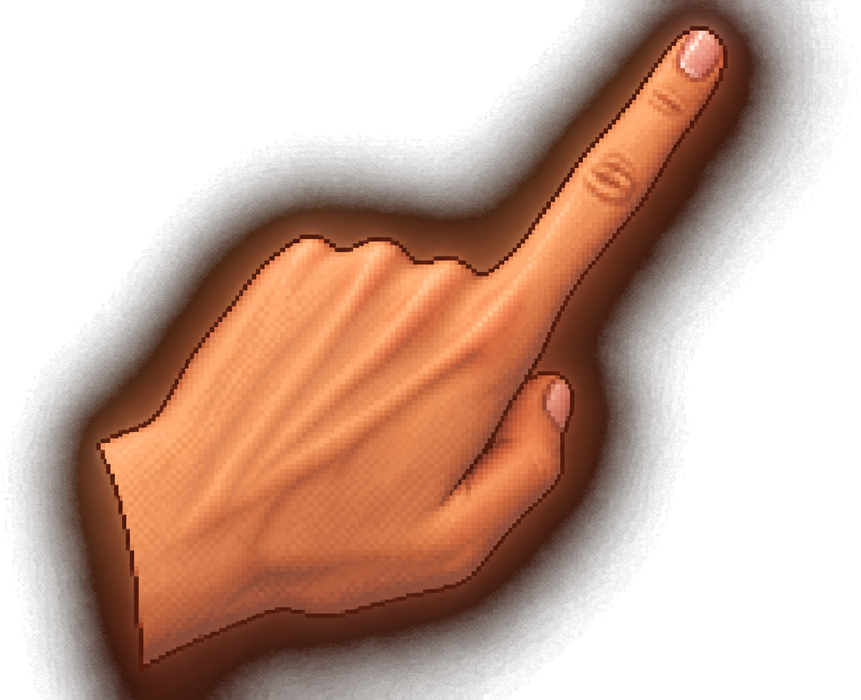
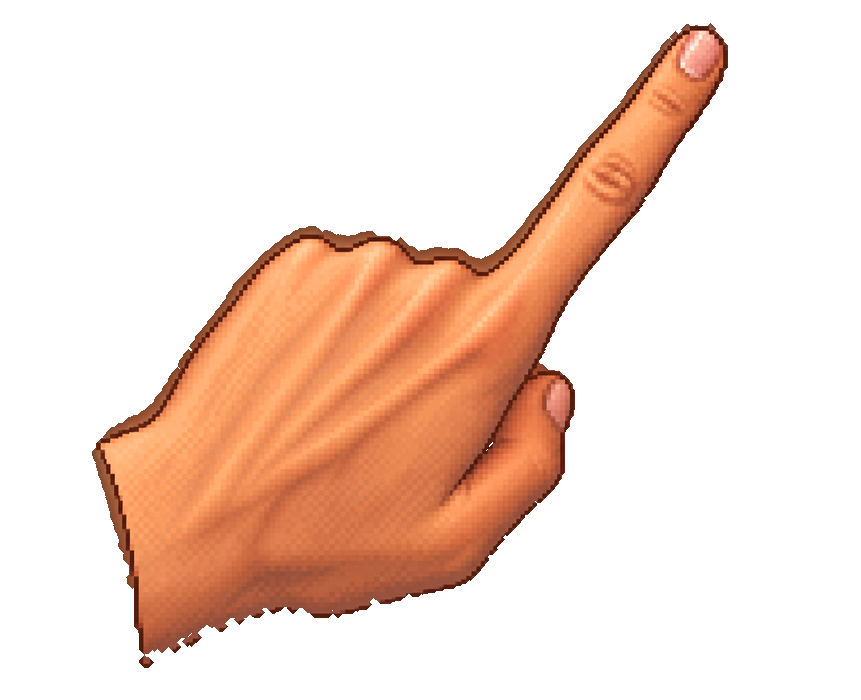
Simplifie et uniformise l’affichage des paris

diff --git a/multiplayer.css b/multiplayer.css
@@ -36,13 +36,13 @@
 }
 
 /* Révélation simultanée des paris par gestes de mains */
-.bid-reveal{width:calc(100% + 30px);max-width:650px;margin:8px -15px 14px;padding:14px 10px 16px;border:1px solid #d7b85f;border-radius:12px;background:linear-gradient(180deg,#173c34ee,#081e1bdd);box-shadow:0 10px 25px #0008,inset 0 0 22px #e3bd3a18}
+.bid-reveal{width:calc(100% + 12px);max-width:700px;margin:8px -6px 14px;padding:15px 12px 17px;border:1px solid #d7b85f;border-radius:12px;background:linear-gradient(180deg,#173c34ee,#081e1bdd);box-shadow:0 10px 25px #0008,inset 0 0 22px #e3bd3a18}
 .bid-reveal>h3{margin:0 0 9px;color:#ffe08a;font-size:11px;letter-spacing:.18em;text-align:center;text-shadow:0 2px #000}
-.bid-reveal-grid,.mobile-bid-reveal{display:flex;justify-content:center;align-items:end;gap:14px;flex-wrap:wrap}
-.revealed-bid{display:grid;grid-template-rows:auto 108px auto;min-width:110px;place-items:center;color:#fff1b8;text-align:center;animation:bid-hand-reveal .55s cubic-bezier(.2,.9,.25,1.25) both}
+.bid-reveal-grid,.mobile-bid-reveal{display:flex;justify-content:center;align-items:end;gap:16px;flex-wrap:wrap}
+.revealed-bid{display:grid;grid-template-rows:auto 118px;min-width:120px;place-items:center;color:#fff1b8;text-align:center;animation:bid-hand-reveal .55s cubic-bezier(.2,.9,.25,1.25) both}
 .revealed-bid:nth-child(2){animation-delay:.06s}.revealed-bid:nth-child(3){animation-delay:.12s}.revealed-bid:nth-child(4){animation-delay:.18s}
-.revealed-bid>span{font-size:10px;font-weight:900}.revealed-bid>small{margin-top:-2px;color:#f6d372;font-size:9px;font-weight:900}
-.bid-gesture{position:relative;display:inline-grid;width:126px;height:106px;place-items:center;filter:drop-shadow(0 7px 6px #000b)}
+.revealed-bid>span{font-size:10px;font-weight:900}
+.bid-gesture{position:relative;display:inline-grid;width:138px;height:116px;place-items:center;filter:drop-shadow(0 7px 6px #000b)}
 .bid-gesture img{display:block;max-width:100%;max-height:100%;object-fit:contain}
 .bid-gesture.from-right img{transform:scaleX(-1)}
 /* Variantes de mains : les gestes validés restent strictement identiques. */
@@ -59,7 +59,7 @@
   .mobile-revealed-bids{border-color:#dabd66;background:linear-gradient(#173b34e8,#071a18ed);box-shadow:0 0 22px #f0bd4540}
   .mobile-revealed-bids h3{color:#ffe08a!important}
   .mobile-bid-reveal{gap:5px}
-  .mobile-bid-reveal .revealed-bid{grid-template-rows:auto 82px auto;min-width:82px}
+  .mobile-bid-reveal .revealed-bid{grid-template-rows:auto 82px;min-width:82px}
   .mobile-bid-reveal .bid-gesture{width:92px;height:80px}
 }
 
@@ -162,15 +162,15 @@
 .arena .stone-runes::before,
 .arena .stone-runes::after{
   content:""!important;
-  top:-35px!important;
-  width:104px;
-  height:95px;
+  top:-27px!important;
+  width:92px;
+  height:84px;
   background:url("assets/ui/jungle-vine-corner.png") center/contain no-repeat;
   filter:drop-shadow(0 5px 4px #0008);
   opacity:.95;
 }
-.arena .stone-runes::before{left:-31px!important;transform:none!important}
-.arena .stone-runes::after{right:-31px!important;transform:scaleX(-1)!important}
+.arena .stone-runes::before{left:-10px!important;transform:none!important}
+.arena .stone-runes::after{right:-10px!important;transform:scaleX(-1)!important}
 /* Le parchemin et ses lianes forment déjà le cadre : aucun second contour intérieur. */
 .arena .stone-runes{
   inset:0!important;
@@ -342,7 +342,7 @@
    les joueurs se font face de part et d'autre. */
 @media(min-width:951px){
   .arena.multiplayer-arena{
-    grid-template-columns:minmax(220px,1fr) minmax(340px,410px) minmax(220px,1fr)!important;
+    grid-template-columns:minmax(220px,1fr) minmax(390px,460px) minmax(220px,1fr)!important;
     gap:18px!important;
     align-items:start!important;
   }
@@ -351,6 +351,9 @@
     grid-row:1 / span 6!important;
     width:100%!important;
     margin-top:210px!important;
+    min-height:540px!important;
+    padding-left:32px!important;
+    padding-right:32px!important;
   }
   .arena.multiplayer-arena>.players-grid{display:contents!important}
   .arena.multiplayer-arena>.players-grid>article.player-card:nth-child(odd){grid-column:1!important}

diff --git a/game.js b/game.js
@@ -14,10 +14,10 @@ if(invitedCode&&session?.code!==invitedCode){session=null;localStorage.removeIte
 const special=c=>['brown','green','blue'].includes(c);const normalizedCharacter=name=>name==='Adéla'?'Adela':name;const characterFile=name=>CHARACTERS.find(c=>c[0]===normalizedCharacter(name))?.[1]||CHARACTERS[0][1];
 const esc=value=>String(value).replace(/[&<>"']/g,c=>({'&':'&amp;','<':'&lt;','>':'&gt;','"':'&quot;',"'":'&#39;'}[c]));
 function dieHTML(d,clickable=false){if(d.hidden)return `<button class="die back" disabled></button>`;const face=special(d.color)&&d.face==='symbol'?icons[d.color]:d.face==='flag'?'<span class="flag">⚑</span>':`<span class="value">${d.face??'?'}</span>`;return `<button class="die ${d.color} ${clickable?'clickable':''}" ${clickable?`data-die="${d.id}"`:''}>${face}</button>`}
-function bidGestureHTML(player,index,compact=false){if(!Number.isInteger(player.bid))return '<b>—</b>';const side=index%2?'from-right':'from-left',character=normalizedCharacter(player.character||player.name),handStyle=FEMININE_HAND_CHARACTERS.has(character)?'feminine-hands':character==='Yannick'?'yannick-hands':'';return `<span class="bid-gesture ${side} ${handStyle} ${compact?'compact':''}"><img src="assets/bids/bid-${player.bid}.png" alt="${player.bid} pli${player.bid>1?'s':''}"><em>${player.bid}</em></span>`}
+function bidGestureHTML(player,index,compact=false){if(!Number.isInteger(player.bid))return '<b>—</b>';const side=index%2?'from-right':'from-left',character=normalizedCharacter(player.character||player.name),handStyle=FEMININE_HAND_CHARACTERS.has(character)?'feminine-hands':character==='Yannick'?'yannick-hands':'';return `<span class="bid-gesture ${side} ${handStyle} ${compact?'compact':''}"><img src="assets/bids/bid-${player.bid}.png?v=20260819-2" alt="${player.bid} pli${player.bid>1?'s':''}"><em>${player.bid}</em></span>`}
 function bidsAreRevealed(){return state.phase!=='bids'&&state.players.length>0&&state.players.every(player=>Number.isInteger(player.bid))}
 function shouldShowBidReveal(){return bidsAreRevealed()&&state.phase==='play'&&state.trick===1&&state.played.length===0}
-function bidRevealHTML(mobile=false){return `<div class="${mobile?'mobile-bid-reveal':'bid-reveal-grid'}">${state.players.map((player,index)=>`<div class="revealed-bid"><span>${esc(player.name)}</span>${bidGestureHTML(player,index)}<small>${player.bid} pli${player.bid>1?'s':''}</small></div>`).join('')}</div>`}
+function bidRevealHTML(mobile=false){return `<div class="${mobile?'mobile-bid-reveal':'bid-reveal-grid'}">${state.players.map((player,index)=>`<div class="revealed-bid"><span>${esc(player.name)}</span>${bidGestureHTML(player,index)}</div>`).join('')}</div>`}
 function connect(){
   clearTimeout(reconnectTimer);const attempt=++connectionNumber,protocol=location.protocol==='https:'?'wss':'ws';
   $('connectionBanner').classList.toggle('hidden',!state);const nextSocket=new WebSocket(`${protocol}://${location.host}`);socket=nextSocket;

diff --git a/index.html b/index.html
@@ -13,7 +13,7 @@
   <link rel="manifest" href="/site.webmanifest?v=2">
   <link rel="stylesheet" href="styles.css?v=5">
   <link rel="stylesheet" href="theme.css?v=5">
-  <link rel="stylesheet" href="multiplayer.css?v=15">
+  <link rel="stylesheet" href="multiplayer.css?v=17">
 </head>
 <body>
   <div id="connectionBanner" class="connection-banner hidden">RECONNEXION AU SERVEUR…</div>
@@ -150,6 +150,6 @@
     <p class="gallery-intro">Découvrez tous les personnages disponibles avant de choisir votre champion.</p>
     <div id="galleryGrid" class="gallery-grid"></div>
   </dialog>
-  <script src="game.js?v=16"></script>
+  <script src="game.js?v=18"></script>
 </body>
 </html>
